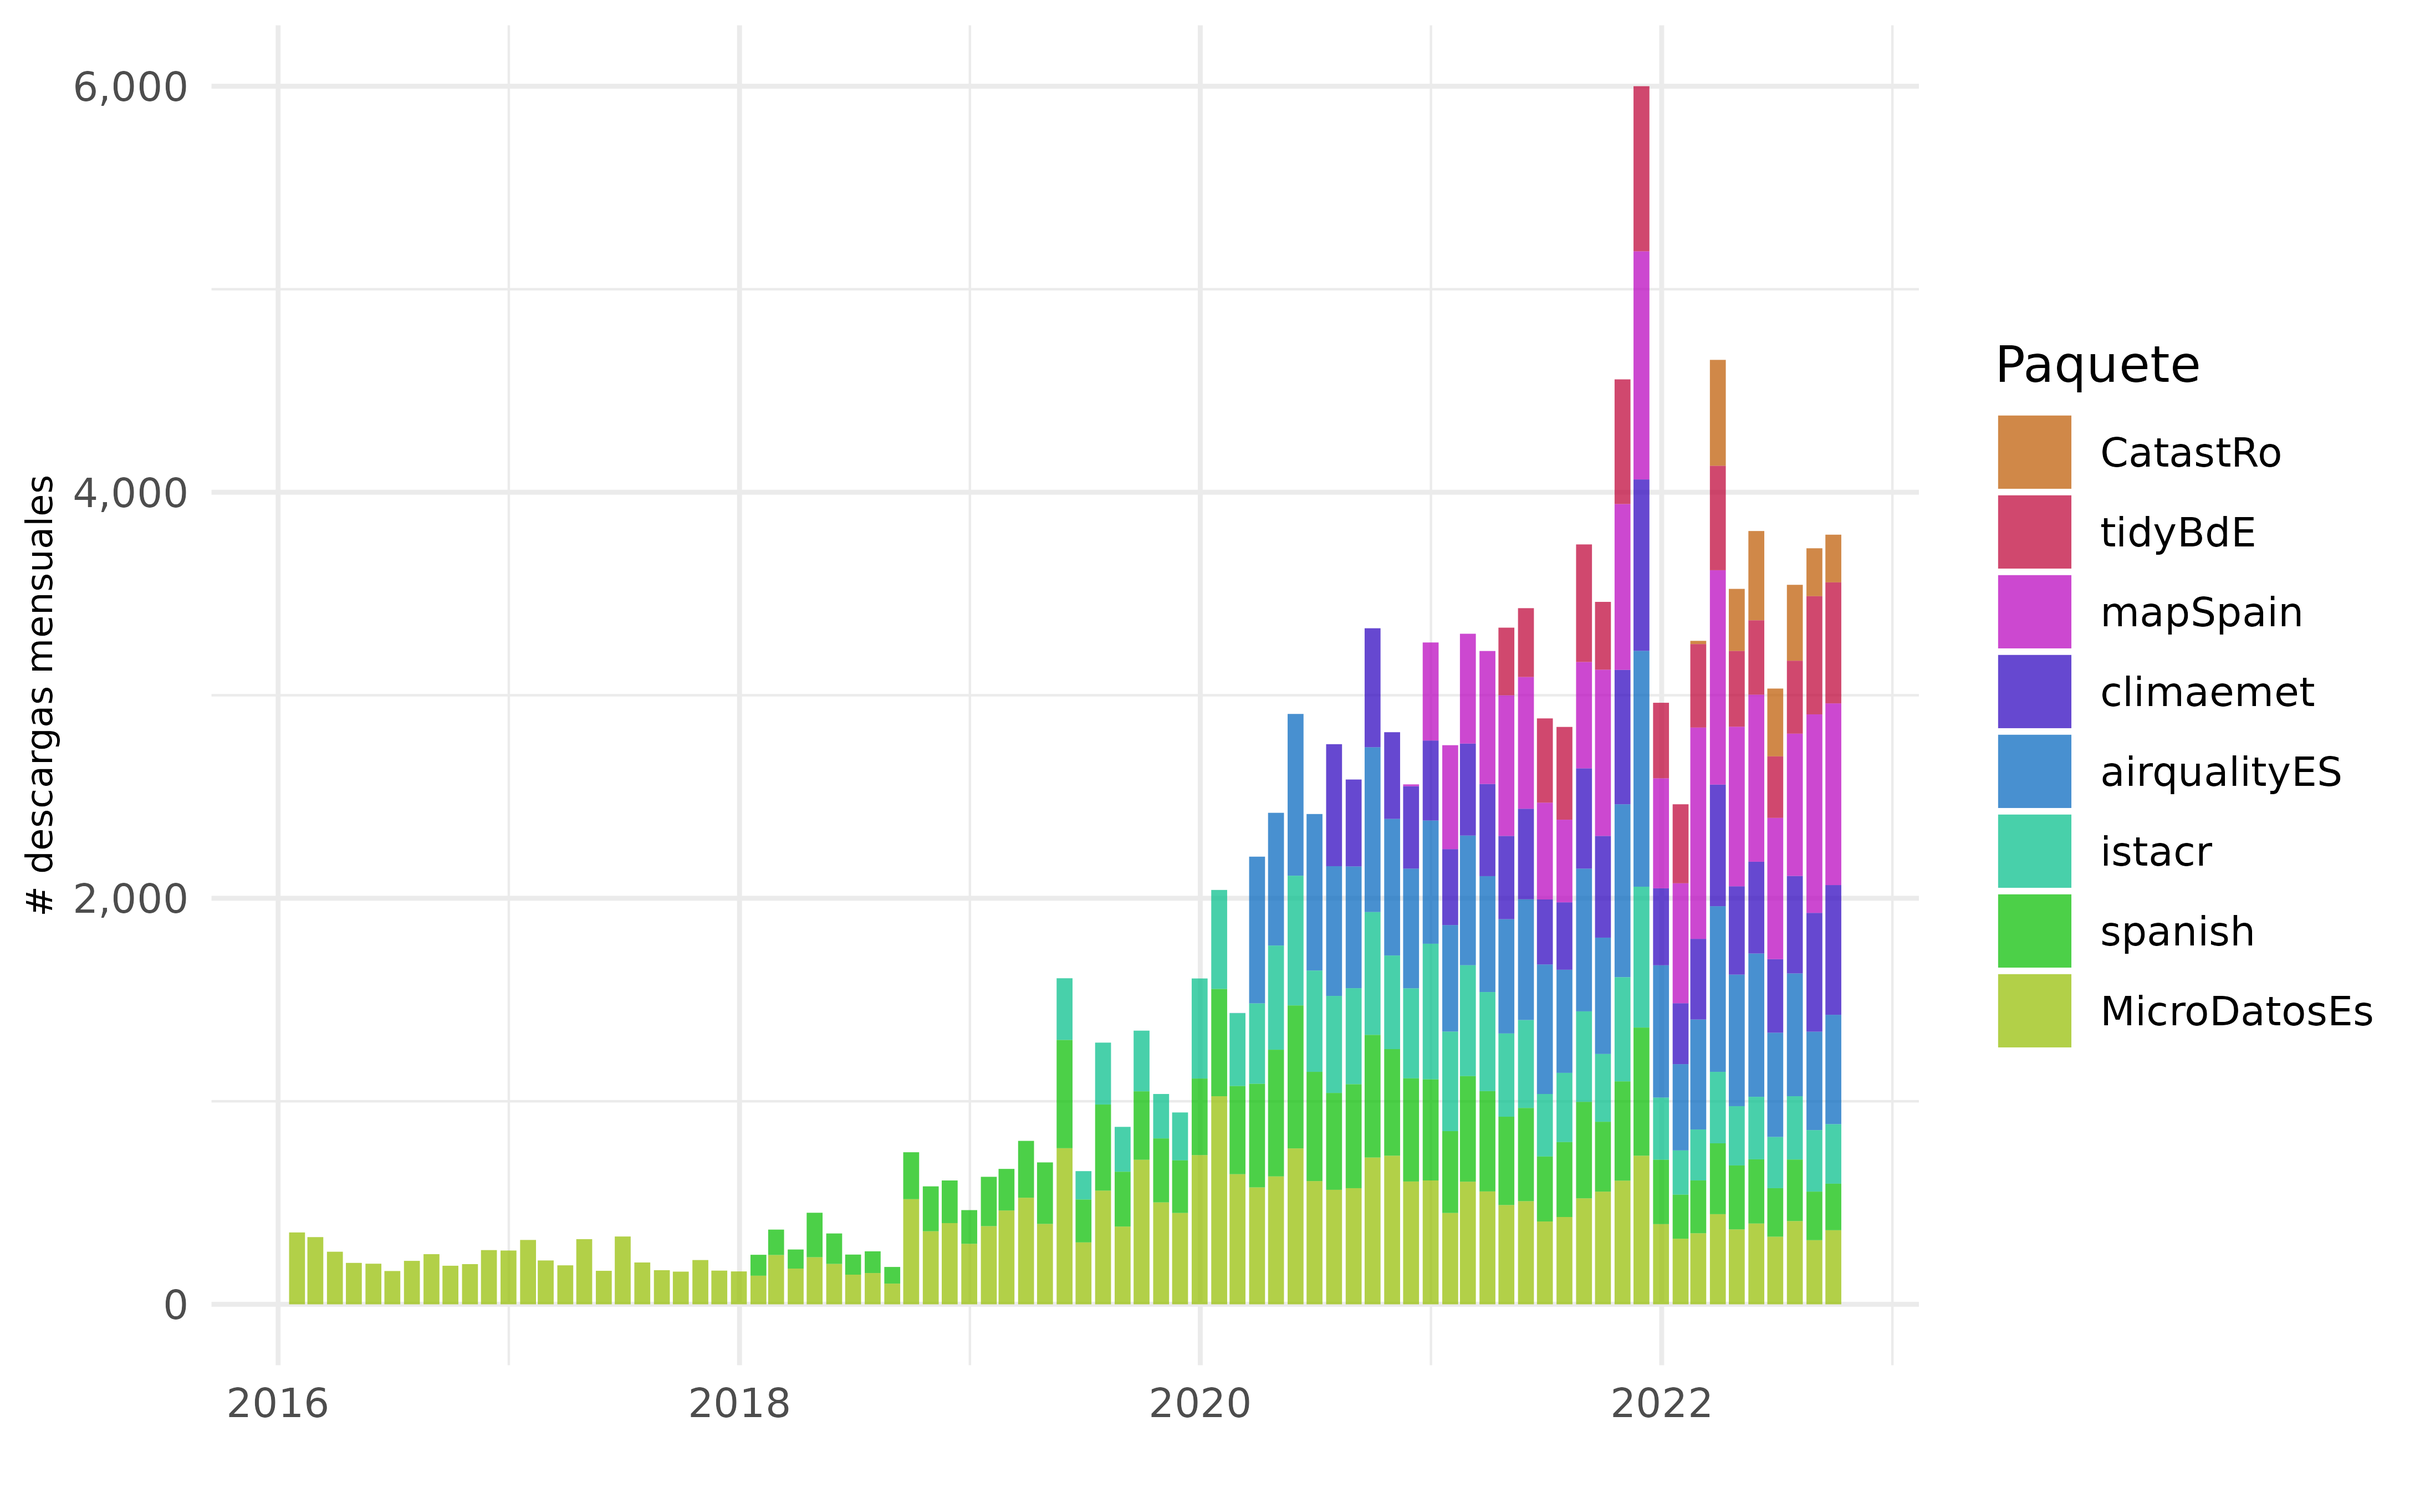
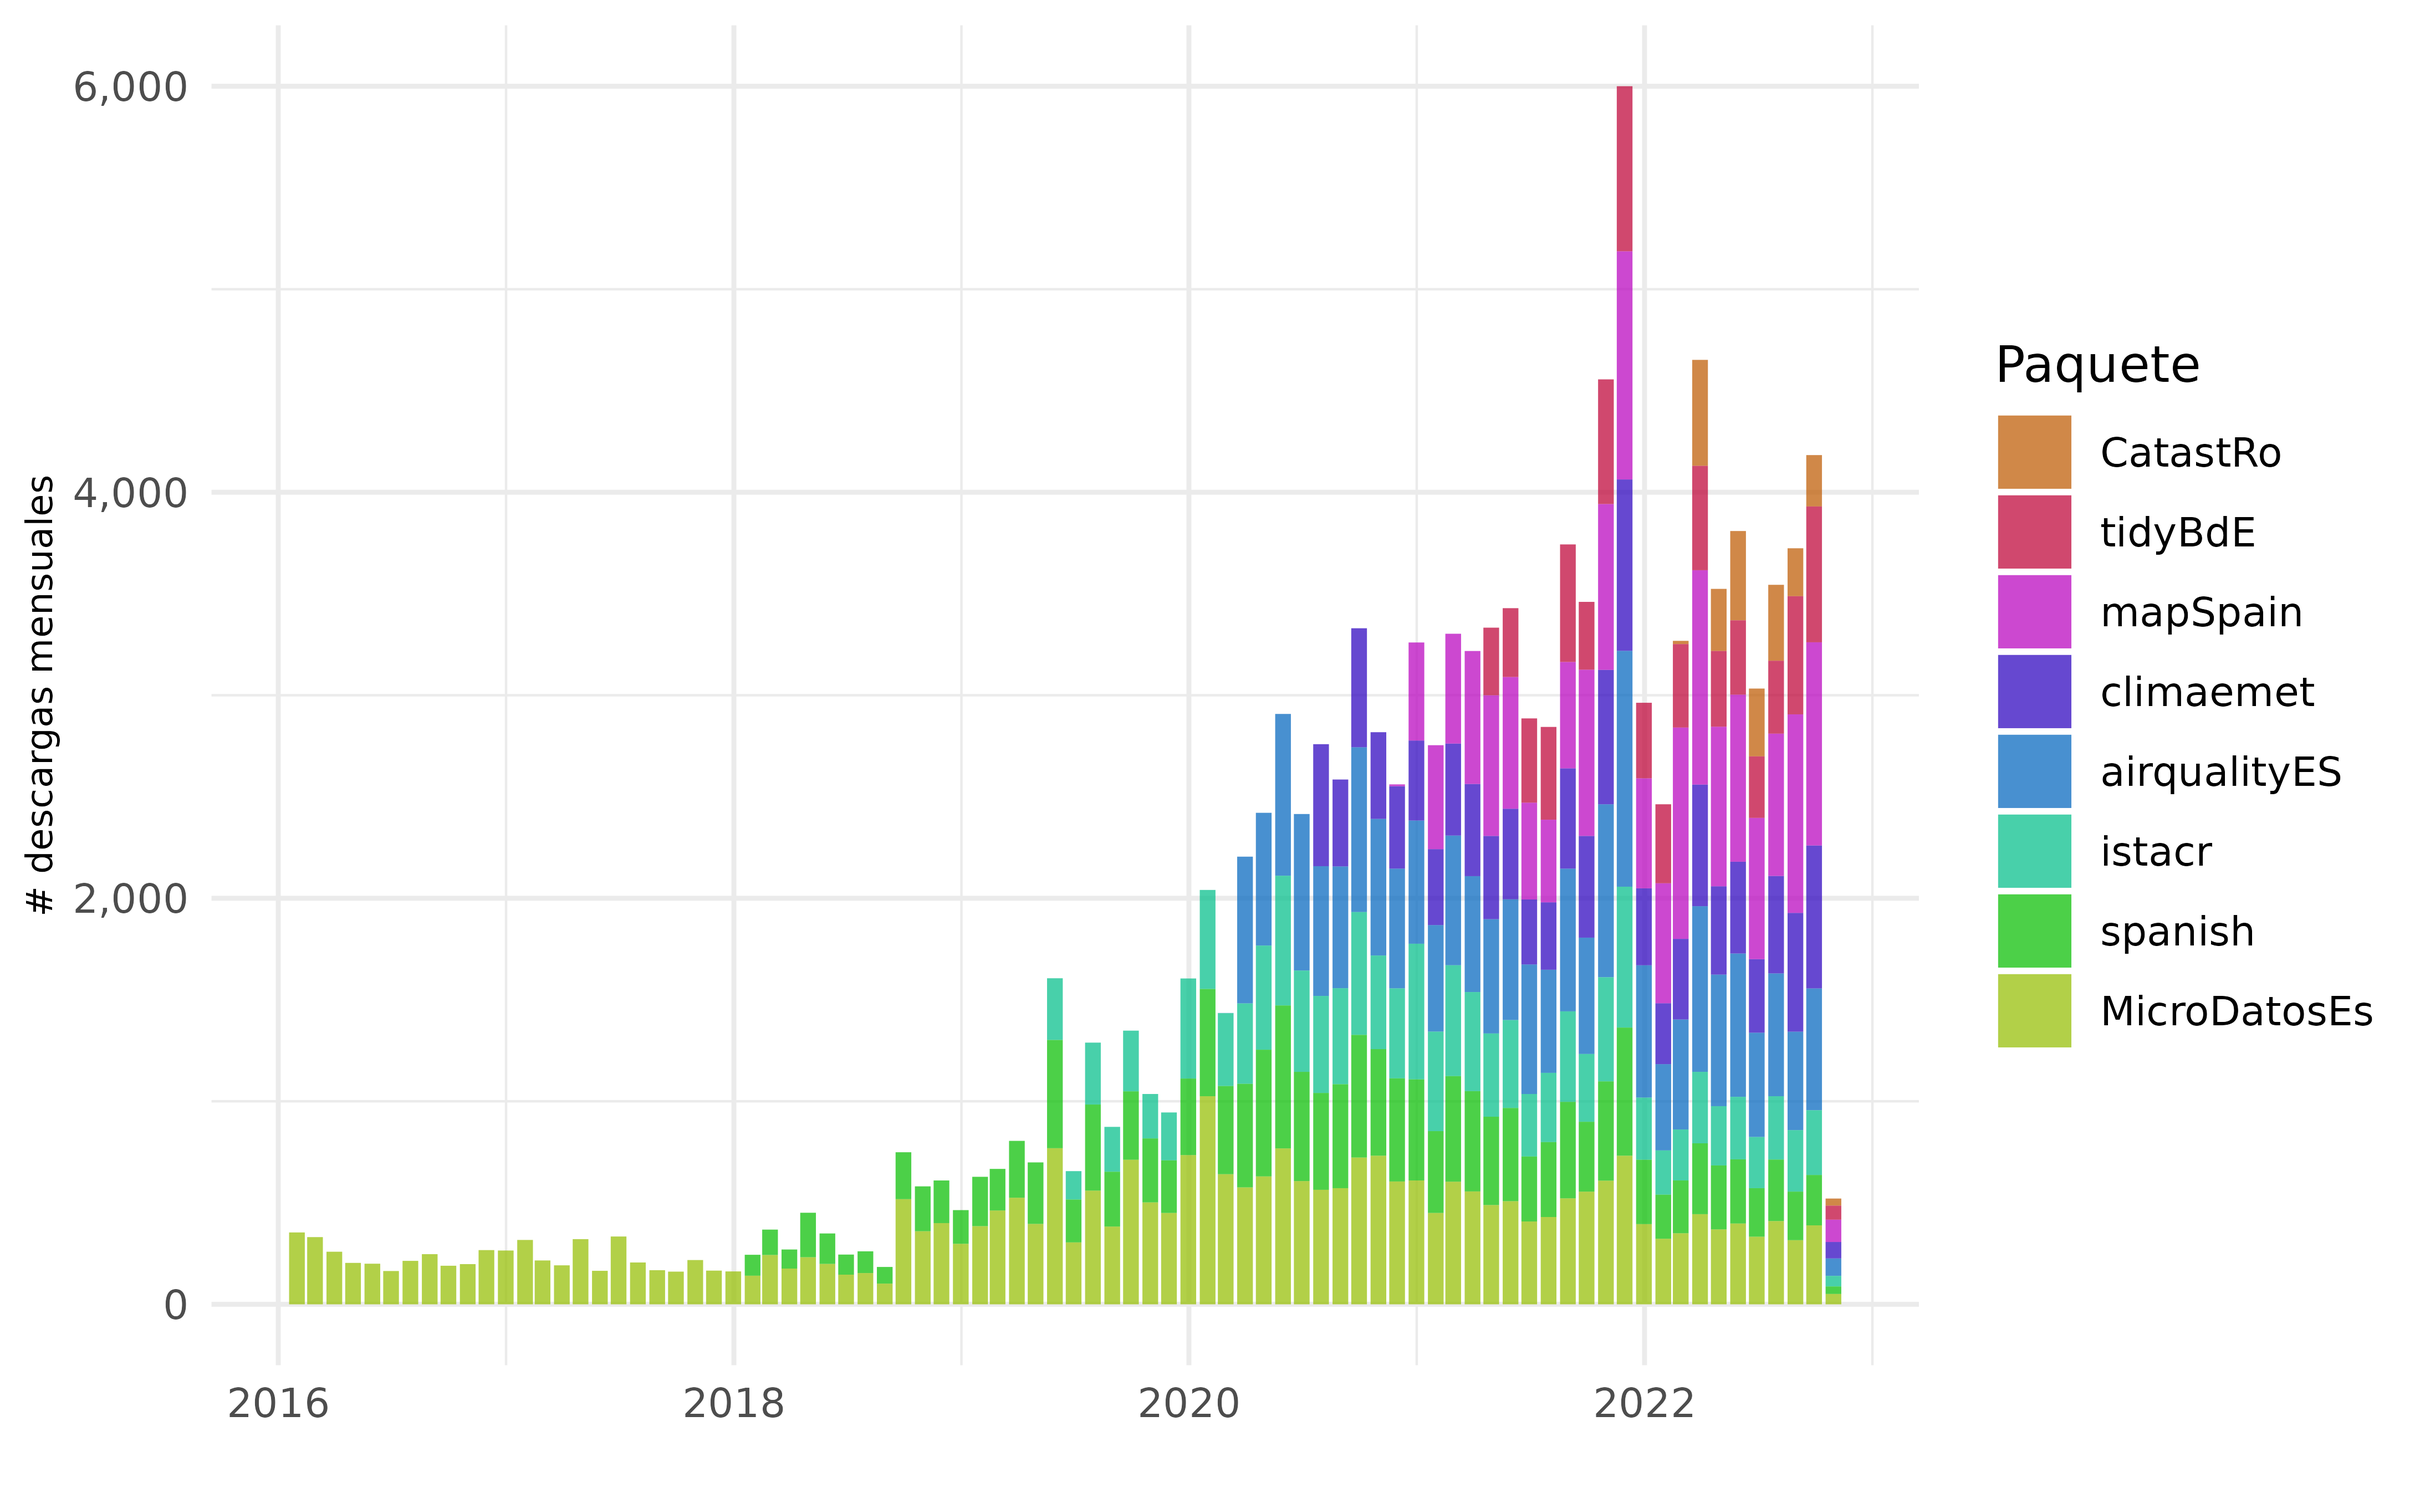
Built site for rostemplate: 0.1.1.9000@9bdd130

diff --git a/articles/descargas.html b/articles/descargas.html
@@ -100,7 +100,7 @@
 
     
     
-<p><em>Fecha de actualización: 29 Sep 2022</em></p>
+<p><em>Fecha de actualización: 06 Oct 2022</em></p>
 <p>Descargas de paquetes de rOpenSpain desde CRAN.</p>
 <div class="section level2">
 <h2 id="total-de-descargas">Total de descargas<a class="anchor" aria-label="anchor" href="#total-de-descargas"></a>
@@ -116,7 +116,7 @@
 <h2 id="datos">Datos<a class="anchor" aria-label="anchor" href="#datos"></a>
 </h2>
 <div id="station-table" class="reactable html-widget" style="width:auto;height:auto;"></div>
-<script type="application/json" data-for="station-table">{"x":{"tag":{"name":"Reactable","attribs":{"data":{"paquete":["CatastRo","tidyBdE","mapSpain","climaemet","airqualityES","istacr","spanish","MicroDatosEs"],"en CRAN":["2022-02-28","2021-04-08","2020-11-30","2020-07-07","2020-02-29","2019-04-24","2017-12-14","2013-10-21"],"media descargas diarias":[11.7,15.3,23.7,15.7,21.4,13.1,11.6,13.2],"ultimo dia":[7,8,12,9,19,8,7,8],"ultima semana":[53,124,185,141,132,67,56,64],"ultimo mes":[256,667,1011,710,589,334,249,400],"ultimo año":[2463,5723,10108,6191,7999,4133,3936,5088]},"columns":[{"accessor":"paquete","name":"paquete","type":"character"},{"accessor":"en CRAN","name":"en CRAN","type":"Date"},{"accessor":"media descargas diarias","name":"media descargas diarias","type":"numeric"},{"accessor":"ultimo dia","name":"ultimo dia","type":"numeric"},{"accessor":"ultima semana","name":"ultima semana","type":"numeric"},{"accessor":"ultimo mes","name":"ultimo mes","type":"numeric"},{"accessor":"ultimo año","name":"ultimo año","type":"numeric"}],"filterable":true,"searchable":true,"defaultPageSize":10,"showPageSizeOptions":true,"pageSizeOptions":[10,25,50,100],"paginationType":"jump","showPageInfo":true,"minRows":1,"striped":true,"elementId":"station-table","dataKey":"e979807d486dfa50a0c058005c847350"},"children":[]},"class":"reactR_markup"},"evals":[],"jsHooks":[]}</script>
+<script type="application/json" data-for="station-table">{"x":{"tag":{"name":"Reactable","attribs":{"data":{"paquete":["CatastRo","tidyBdE","mapSpain","climaemet","airqualityES","istacr","spanish","MicroDatosEs"],"en CRAN":["2022-02-28","2021-04-08","2020-11-30","2020-07-07","2020-02-29","2019-04-24","2017-12-14","2013-10-21"],"media descargas diarias":[11.5,15.3,23.8,15.7,21.4,13,11.6,13.2],"ultimo dia":[10,8,17,14,19,11,7,10],"ultima semana":[49,134,201,139,132,73,46,70],"ultimo mes":[256,624,958,668,574,323,251,405],"ultimo año":[2516,5749,10152,6163,7965,4085,3864,5018]},"columns":[{"accessor":"paquete","name":"paquete","type":"character"},{"accessor":"en CRAN","name":"en CRAN","type":"Date"},{"accessor":"media descargas diarias","name":"media descargas diarias","type":"numeric"},{"accessor":"ultimo dia","name":"ultimo dia","type":"numeric"},{"accessor":"ultima semana","name":"ultima semana","type":"numeric"},{"accessor":"ultimo mes","name":"ultimo mes","type":"numeric"},{"accessor":"ultimo año","name":"ultimo año","type":"numeric"}],"filterable":true,"searchable":true,"defaultPageSize":10,"showPageSizeOptions":true,"pageSizeOptions":[10,25,50,100],"paginationType":"jump","showPageInfo":true,"minRows":1,"striped":true,"elementId":"station-table","dataKey":"5a6bb90966d964359c93171422bbb776"},"children":[]},"class":"reactR_markup"},"evals":[],"jsHooks":[]}</script>
 </div>
   </main><aside class="col-md-3"><nav id="toc"><h2>En esta página</h2>
     </nav></aside>
